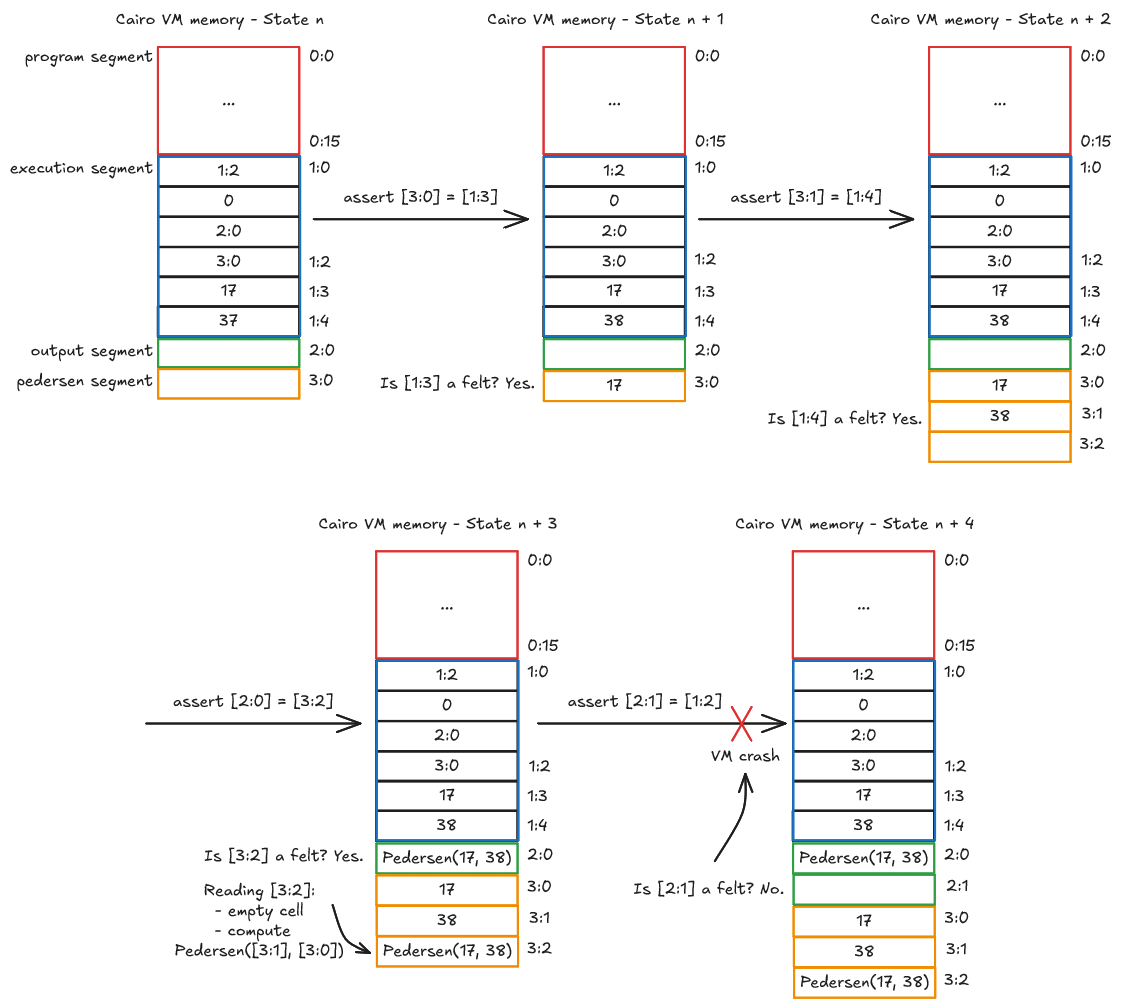
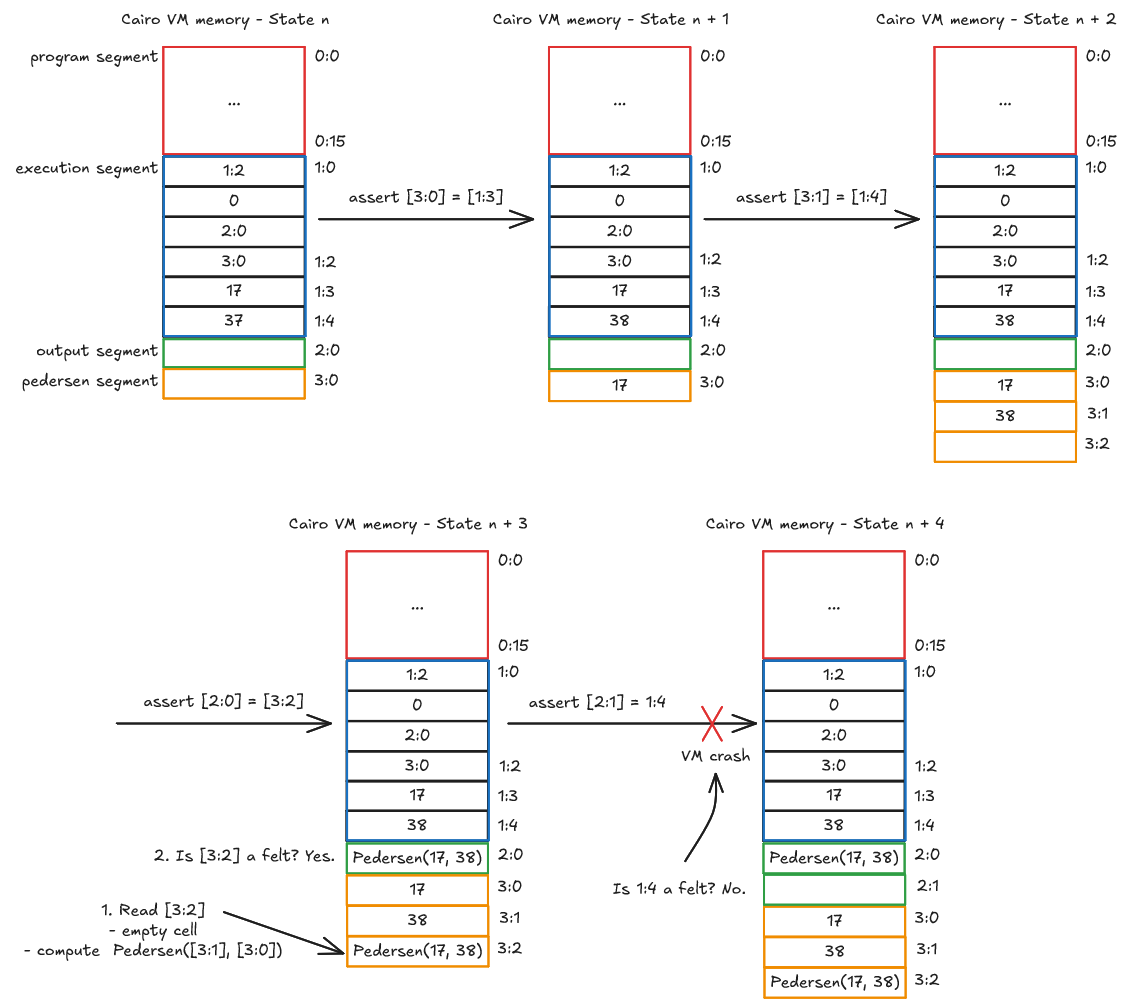
refactor: improve diagram explanation

diff --git a/src/ch204-01-how-builtins-work.md b/src/ch204-01-how-builtins-work.md
@@ -49,12 +49,32 @@ For example, the _Pedersen_ builtin works with triplets of cells:
 - One output cell which will store `Pedersen(a, b)`.
 
 The following diagram shows in a simplified way
-how the validation and deduction properties work.
-
-The program is in the state n, the instructions that follow
-compute the Pedersen hash of 17 and 38 and assert it
-to the output segment, leaving the program in state n+3.
-Finally, it tries to assert a relocatable to the output
-segment which crashes the VM.
+how the validation and deduction properties work,
+by focusing ourselves on the memory when running instructions
+involving builtin segments.
 
 ![Diagram of the memory while computing the pedersen hash of two values and storing it in the output segment](builtin-example-pedersen-output.png)
+
+- The memory is in the state n.
+  The segment of index 2 is the output segment.
+  The segment of index 3 is the Pedersen segment.
+- The first two instructions assert two felts `17` and `38`
+  to the input cells `3:0` and `3:1`.
+- The memory is now in the state n+2. Let's deconstruct this instruction:
+
+  1. Read the value at `3:2`
+     - The cell `3:2` is read.
+     - It is an output cell for Pedersen, which is empty.
+     - Then, the Cairo VM must compute the Pedersen hash
+       of the two previous input cells: `3:0` and `3:1` and store it at `3:2`.
+     - Read the values at `3:0` and `3:1`.
+       Are the two values stored Felt ? Yes, `17` and `38`.
+     - Compute `Pedersen(17, 38)`.
+     - Store it on `3:2` cell.
+  2. Assert the read value `Pedersen(17, 38)` to `2:0`
+     - Is `Pedersen(17, 38)` a Felt? Yes.
+
+- The memory is now in the state n+3.
+  The last instruction tries asserting `1:4`
+  to the `2:1`, of the output segment:
+  - Is `1:2` a Felt? No. The VM crashes.
